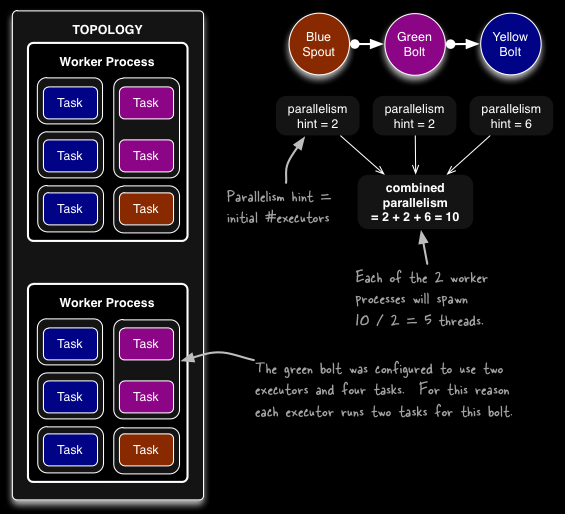
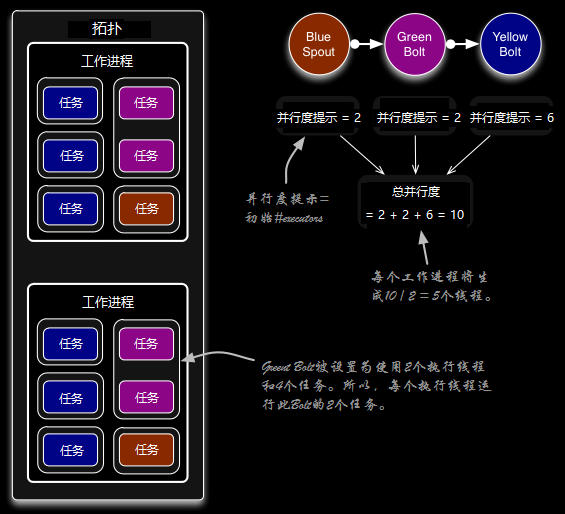
First edition of translation of understanding the parallelism of a storm topology.

diff --git a/_posts/2015-10-26-storm-understanding-the-parallelism-of-a-storm-topology.md b/_posts/2015-10-26-storm-understanding-the-parallelism-of-a-storm-topology.md
@@ -7,55 +7,54 @@ tags : [storm]
 ---
 {% include JB/setup %}
 
-## What makes a running topology: worker processes, executors and tasks
+## 运行中拓扑的组成要素：工作进程、执行线程和任务
 
-Storm distinguishes between the following three main entities that are used to actually run a topology in a Storm cluster:
+下面是在Storm集群中用来运行拓扑的三种对象，它们之间有很大的不同。
 
-1. Worker processes
-2. Executors (threads)
-3. Tasks
+1. 工作进程
+2. 执行线程
+3. 任务
 
-Here is a simple illustration of their relationships:
+下图是三者关系的简单说明：
 
-![The relationships of worker processes, executors (threads) and tasks in Storm](/images/relationships-worker-processes-executors-tasks.png)
+![Storm中工作进程、执行线程和任务的关系](/images/relationships-worker-processes-executors-tasks.png)
 
-A _worker process_ executes a subset of a topology. A worker process belongs to a specific topology and may run one or more executors for one or more components (spouts or bolts) of this topology. A running topology consists of many such processes running on many machines within a Storm cluster.
+_工作进程_执行拓扑的一个子集。工作进程属于特定的拓扑，可能包含一个或多个执行线程用来执行拓扑的一个或多个节点（Spout或Bolt）。运行中的拓扑由运行在Storm集群中多个机器上的多个这样的进程组成。
 
-An _executor_ is a thread that is spawned by a worker process. It may run one or more tasks for the same component (spout or bolt).
+_执行线程_是工作进程产生的一个线程。它可能运行同一个节点（Spout或Bolt）的一个或多个任务。
 
-A _task_ performs the actual data processing — each spout or bolt that you implement in your code executes as many tasks across the cluster. The number of tasks for a component is always the same throughout the lifetime of a topology, but the number of executors (threads) for a component can change over time. This means that the following condition holds true: ``#threads ≤ #tasks``. By default, the number of tasks is set to be the same as the number of executors, i.e. Storm will run one task per thread.
+_任务_完成实际的数据处理工作——用户在代码中实现的Spout或Bolt在集群上作为多个任务来运行。节点任务的数目在拓扑的生命周期中是恒定的，但是节点的执行线程的数目可能发生变化。这意味着不等式``#threads ≤ #tasks``成立。默认情况下，任务数被设置为和执行线程数相等，即Storm在每个线程中运行一个任务。
 
-## Configuring the parallelism of a topology
+## 配置拓扑的并行度
 
-Note that in Storm’s terminology "parallelism" is specifically used to describe the so-called _parallelism hint_, which means the initial number of executor (threads) of a component. In this document though we use the term "parallelism" in a more general sense to describe how you can configure not only the number of executors but also the number of worker processes and the number of tasks of a Storm topology. We will specifically call out when "parallelism" is used in the normal, narrow definition of Storm.
+注意，在Storm术语中，"并行度"用来描述所谓的_并行度提示_，即每个节点最初的执行线程的个数。在本文中，"并行度"不止被用来描述执行线程的个数，还被更一般地用于描述工作进程的个数以及Storm拓扑中任务的个数。如果仅仅是前者，文中会特别指明。
 
-The following sections give an overview of the various configuration options and how to set them in your code. There is more than one way of setting these options though, and the table lists only some of them. Storm currently has the following [order of precedence for configuration settings](Configuration.html): ``defaults.yaml`` < ``storm.yaml`` < topology-specific configuration < internal component-specific configuration < external component-specific configuration.
+下面简要介绍各种配置项以及如何在代码中设置它们。有多种方法可以设置这些配置项，Storm目前遵从如下的[配置项顺序](Configuration.html): ``defaults.yaml`` < ``storm.yaml`` < 拓扑级别配置 < 节点内部配置 < 节点外部配置。
 
-### Number of worker processes
+### 工作进程个数
 
-* Description: How many worker processes to create _for the topology_ across machines in the cluster.
-* Configuration option: [TOPOLOGY_WORKERS](/javadoc/apidocs/backtype/storm/Config.html#TOPOLOGY_WORKERS)
-* How to set in your code (examples):
+* 描述：集群机器中用来创建_拓扑_的工作进程的个数。
+* 配置项：[TOPOLOGY_WORKERS](/javadoc/apidocs/backtype/storm/Config.html#TOPOLOGY_WORKERS)
+* 代码中的设置方法（示例）：
     * [Config#setNumWorkers](/javadoc/apidocs/backtype/storm/Config.html)
 
-### Number of executors (threads)
+### 执行线程个数
 
-* Description: How many executors to spawn _per component_.
-* Configuration option: None (pass ``parallelism_hint`` parameter to ``setSpout`` or ``setBolt``)
-* How to set in your code (examples):
+* 描述：节点生成的执行线程的个数。
+* 配置项：无（向``setSpout``或``setBolt``传递``parallelism_hint``参数）
+* 代码中的设置方法（示例）：
     * [TopologyBuilder#setSpout()](/javadoc/apidocs/backtype/storm/topology/TopologyBuilder.html)
     * [TopologyBuilder#setBolt()](/javadoc/apidocs/backtype/storm/topology/TopologyBuilder.html)
-    * Note that as of Storm 0.8 the ``parallelism_hint`` parameter now specifies the initial number of executors (not tasks!) for that bolt.
+    * 自Storm 0.8之后，``parallelism_hint``参数指定Bolt的初始执行线程（非任务）的个数。
 
-### Number of tasks
+### 任务个数
 
-* Description: How many tasks to create _per component_.
-* Configuration option: [TOPOLOGY_TASKS](/javadoc/apidocs/backtype/storm/Config.html#TOPOLOGY_TASKS)
-* How to set in your code (examples):
+* 描述：节点生成的任务的个数。
+* 配置项：[TOPOLOGY_TASKS](/javadoc/apidocs/backtype/storm/Config.html#TOPOLOGY_TASKS)
+* 代码中的设置方法（示例）：
     * [ComponentConfigurationDeclarer#setNumTasks()](/javadoc/apidocs/backtype/storm/topology/ComponentConfigurationDeclarer.html)
 
-
-Here is an example code snippet to show these settings in practice:
+下面是说明这些配置项的一个示例代码片段：
 
 ```java
 topologyBuilder.setBolt("green-bolt", new GreenBolt(), 2)
@@ -63,21 +62,21 @@ topologyBuilder.setBolt("green-bolt", new GreenBolt(), 2)
                .shuffleGrouping("blue-spout");
 ```
 
-In the above code we configured Storm to run the bolt ``GreenBolt`` with an initial number of two executors and four associated tasks. Storm will run two tasks per executor (thread). If you do not explicitly configure the number of tasks, Storm will run by default one task per executor.
+上述代码中，我们指定Storm初始使用2个执行线程和4个任务来运行名为``GreenBolt``的Bolt。Storm将会在每个执行线程中运行2个任务。如果不显式指定任务的个数，Storm默认只会在每个执行线程中运行1个任务。
 
-## Example of a running topology
+## 运行中拓扑示例
 
-The following illustration shows how a simple topology would look like in operation. The topology consists of three components: one spout called ``BlueSpout`` and two bolts called ``GreenBolt`` and ``YellowBolt``. The components are linked such that ``BlueSpout`` sends its output to ``GreenBolt``, which in turns sends its own output to ``YellowBolt``.
+下图是一个简单的拓扑。它由3个节点组成：一个名为``BlueSpout``的Spout和分别名为``GreenBolt``和``YellowBolt``的两个Bolt。节点连接为``BlueSpout``向``GreenBolt``发送输出，后者则向``YellowBolt``发送输出。
 
-![Example of a running topology in Storm](/images/example-of-a-running-topology.png)
+![Storm运行中拓扑示例](/images/example-of-a-running-topology.png)
 
-The ``GreenBolt`` was configured as per the code snippet above whereas ``BlueSpout`` and ``YellowBolt`` only set the parallelism hint (number of executors). Here is the relevant code:
+``GreenBolt``按前述代码配置，而``BlueSpout``和``YellowBolt``则只设置了并行度提示（执行线程个数）。代码如下：
 
 ```java
 Config conf = new Config();
-conf.setNumWorkers(2); // use two worker processes
+conf.setNumWorkers(2); // 使用2个工作进程
 
-topologyBuilder.setSpout("blue-spout", new BlueSpout(), 2); // set parallelism hint to 2
+topologyBuilder.setSpout("blue-spout", new BlueSpout(), 2); // 并行度提示设置为2
 
 topologyBuilder.setBolt("green-bolt", new GreenBolt(), 2)
                .setNumTasks(4)
@@ -93,34 +92,34 @@ StormSubmitter.submitTopology(
     );
 ```
 
-And of course Storm comes with additional configuration settings to control the parallelism of a topology, including:
+当然，Storm还有其他的配置项用于控制拓扑的并行度，包括：
 
-* [TOPOLOGY_MAX_TASK_PARALLELISM](/javadoc/apidocs/backtype/storm/Config.html#TOPOLOGY_MAX_TASK_PARALLELISM): This setting puts a ceiling on the number of executors that can be spawned for a single component. It is typically used during testing to limit the number of threads spawned when running a topology in local mode. You can set this option via e.g. [Config#setMaxTaskParallelism()](/javadoc/apidocs/backtype/storm/Config.html#setMaxTaskParallelism(int)).
+* [TOPOLOGY_MAX_TASK_PARALLELISM](/javadoc/apidocs/backtype/storm/Config.html#TOPOLOGY_MAX_TASK_PARALLELISM)：设置单个节点可以产生的执行线程个数的上限。通常用于在本地模式中运行拓扑进行测试时限制产生的线程的个数。可以通过[Config#setMaxTaskParallelism()](/javadoc/apidocs/backtype/storm/Config.html#setMaxTaskParallelism(int))进行设置。
 
-## How to change the parallelism of a running topology
+## 如何修改运行中拓扑的并行度
 
-A nifty feature of Storm is that you can increase or decrease the number of worker processes and/or executors without being required to restart the cluster or the topology. The act of doing so is called rebalancing.
+Storm的一个很实用的特性是，用户可以无需重启集群或拓扑即可增减工作进程和/或执行线程的个数。这个过程被称为再平衡。
 
-You have two options to rebalance a topology:
+用户有两种方法再平衡拓扑：
 
-1. Use the Storm web UI to rebalance the topology.
-2. Use the CLI tool storm rebalance as described below.
+1. 通过Storm UI界面再平衡拓扑。
+2. 通过Storm命令行工具再平衡。
 
-Here is an example of using the CLI tool:
+下面是使用命令行工具的一个例子：
 
 ```
-## Reconfigure the topology "mytopology" to use 5 worker processes,
-## the spout "blue-spout" to use 3 executors and
-## the bolt "yellow-bolt" to use 10 executors.
+## 重新配置拓扑"mytopology"以使用5个工作进程，
+## Spout"blue-spout"使用3个执行线程，
+## 并且Bolt"yellow-bolt"使用10个执行线程。
 
 $ storm rebalance mytopology -n 5 -e blue-spout=3 -e yellow-bolt=10
 ```
 
-## References
+## 参考资料
 
-* [Concepts](Concepts.html)
-* [Configuration](Configuration.html)
-* [Running topologies on a production cluster](Running-topologies-on-a-production-cluster.html)]
-* [Local mode](Local-mode.html)
-* [Tutorial](Tutorial.html)
-* [Storm API documentation](/javadoc/apidocs/), most notably the class ``Config``
+* [概念](storm-concepts.html)
+* [配置](storm-configuration.html)
+* [在生产集群中运行拓扑](storm-running-topologies-on-a-production-cluster.html)]
+* [本地模式](Local-mode.html)
+* [教程](storm-tutorial.html)
+* [Storm API文档](/javadoc/apidocs/)，主要是类``Config``
